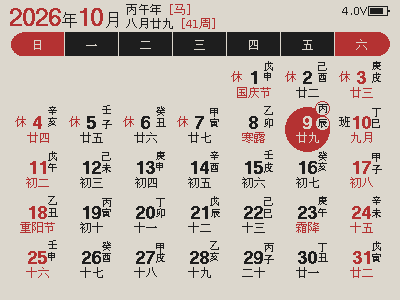
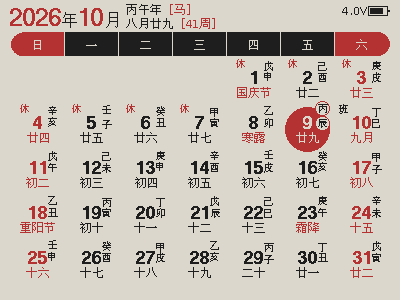
Calendar: 休 / 班 on the circle of the stem/branch badges; small on the 4.2"
Today's 休 / 班 badge sits on the same circle round the date as the stem/branch
badges (the top one mirrored to the left, moved up along the circle past a
two-digit date); other days the character alone in the same place. The 4.2"
uses the stem/branch size for it, and upright (41 px columns) the top of the
circle. Landscape changes too: the firmware's offline calendar follows next.

diff --git a/server/src/screens/calendar.ts b/server/src/screens/calendar.ts
@@ -45,9 +45,9 @@ export function renderCalendar(panel: Panel, ctx: ScreenContext, opts: CalendarO
   const W = panel.width;
   const H = panel.height;
   const large = isLarge(panel); // reference: large_layout = height >= 400 (the short side, so upright too)
-  // An upright 4.2" has ~41 px columns: 休 / 班 move from the left of the date (where they
-  // would run into the cell before) to the cell's top left corner, and the rest of the cell
-  // moves down a little to make room. The large panels upright keep them where they are.
+  // An upright 4.2" has ~41 px columns: 休 / 班 go to the top of their circle (above the
+  // date, where they cannot run into the cell before), and the rest of the cell moves down
+  // a little to make room. The large panels upright are laid out as landscape.
   // Same for the firmware's copy.
   const tall = H > W && !large;
   const weekStart = opts.weekStart ?? 0;
@@ -241,26 +241,38 @@ export function renderCalendar(panel: Panel, ctx: ScreenContext, opts: CalendarO
       if (hol) {
         const text = hol === "work" ? "班" : "休";
         const holInk = hol === "work" ? Ink.Black : Ink.Red;
-        if (isToday) {
-          const rr = large ? 10 : 8;
-          // Reference x, pushed left if the badge would cover the date (upright: the corner).
-          const rx = tall ? x + displayWeek * bw + rr + 3 : Math.min(bx - (large ? 10 : 5), dayInk.x0 - 2 - rr);
-          const ry = tall ? cellTop + rr + 3 : by - 2;
-          fillCircle(c, rx, ry, rr, Ink.White);
-          drawCircle(c, rx, ry, rr, Ink.Red);
-          const p = centeredAt(wqy9, text, rx, ry);
-          print(c, wqy9, text, p.x, p.baseline, holInk);
-          check(`badge ${text}`, wqy9, text, p.x, p.baseline, rx, ry,
-                { color: holInk, circle: { cx: rx, cy: ry, r: rr - 1 } });
-          badges.push({ cx: rx, cy: ry, r: rr + 1 });
-          opts.boxes?.push({ day, what: `badge ${text}`, ink: { x0: rx - rr, x1: rx + rr, y0: ry - rr, y1: ry + rr } });
-        } else {
-          // Reference position, pushed left if it would touch the date.
-          const ink = inkBounds(wqy9, text, 0, 0)!;
-          const hx = tall ? x + displayWeek * bw + 4 : Math.min(bx - (large ? 20 : 11), dayInk.x0 - 2 - ink.x1);
-          const hb = tall ? cellTop + 4 - ink.y0 : by + 3;
-          print(c, wqy9, text, hx, hb, holInk);
-          box(day, text, wqy9, text, hx, hb);
+        // the 4.2": as small as the stem/branch characters
+        const hf = large ? wqy9 : wqy6;
+        {
+          // On the circle round the date + lunar label (today's red disc) that runs through the
+          // top stem/branch badge: that badge mirrored to the left, moved up along the circle
+          // until it clears a two-digit date. Today a badge like the stem/branch ones, other
+          // days the character alone, in the same place.
+          const a = dayInk, b = inkBounds(lunarFont, label, labelX, labelBaseline);
+          const dcx = Math.round((Math.min(a.x0, b?.x0 ?? a.x0) + Math.max(a.x1, b?.x1 ?? a.x1)) / 2);
+          const dcy = Math.round((a.y0 + (b?.y1 ?? a.y1)) / 2);
+          const rr = large ? 9 : 7;
+          const gx = Math.max(taxX + (large ? 36 : 27) - offset - 1, dayInk.x1 + 2 + rr);
+          const labelTop = b?.y0 ?? Infinity;
+          const gy = Math.min(by - 2 - 8 - 3, labelTop - 2 - rr - (2 * rr + 1));
+          const R = Math.hypot(gx - dcx, gy - dcy);
+          // the mirror image; in the narrow upright 4.2" cells the top of the circle, which
+          // stays inside the cell
+          let t = tall ? -Math.PI / 2 : Math.atan2(gy - dcy, gx - dcx);
+          const at = (u: number) => [Math.round(dcx - R * Math.cos(u)), Math.round(dcy + R * Math.sin(u))];
+          const clear = ([px, py]: number[]) => px + rr + 1 < dayInk.x0 || py + rr + 1 < dayInk.y0;
+          while (!clear(at(t)) && t > -Math.PI / 2) t -= Math.PI / 90;
+          const [rx, ry] = at(t);
+          if (isToday) {
+            fillCircle(c, rx, ry, rr, Ink.White);
+            drawCircle(c, rx, ry, rr, Ink.Red);
+            badges.push({ cx: rx, cy: ry, r: rr + 1 });
+            opts.boxes?.push({ day, what: `badge ${text}`, ink: { x0: rx - rr, x1: rx + rr, y0: ry - rr, y1: ry + rr } });
+          }
+          const p = centeredAt(hf, text, rx, ry);
+          print(c, hf, text, p.x, p.baseline, holInk);
+          if (isToday) check(`badge ${text}`, hf, text, p.x, p.baseline, rx, ry, { color: holInk, circle: { cx: rx, cy: ry, r: rr - 1 } });
+          else box(day, text, hf, text, p.x, p.baseline);
         }
       }
     }
